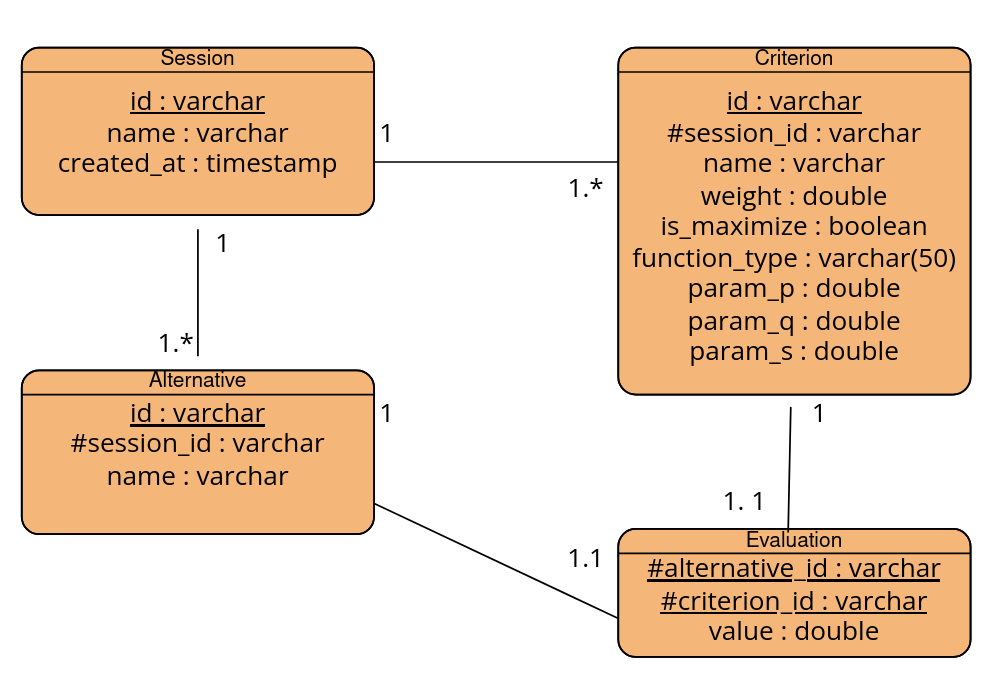
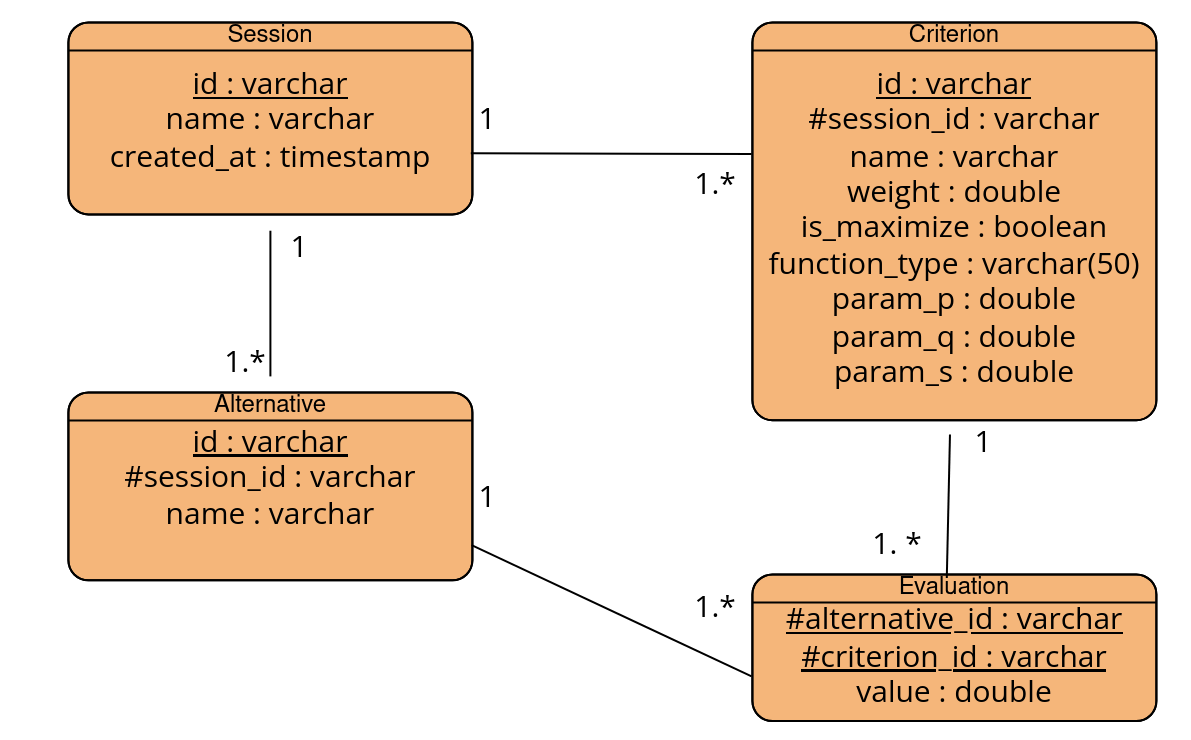
UI : add matrix show preference for each alternative

diff --git a/js/script.js b/js/script.js
@@ -31,6 +31,7 @@ document.addEventListener('DOMContentLoaded', () => {
                 const head = qsa("#resHeader th")[id];
                 if (head) head.innerText = name;
                 updateDropdowns();
+                if (lastResults?.alternatives) updatePromethee1Matrix(lastResults.alternatives);
             }
             updatePairwiseComparison();
             debouncedSendData();
@@ -257,6 +258,8 @@ function displayResults(res) {
         r.cells[r.cells.length-1].innerHTML = `<strong>${sorted.findIndex(s => s.phiNet === item.phiNet) + 1}</strong>`;
         if (fCells[i]) fCells[i].innerText = Number(item.phiMinus).toFixed(4);
     });
+
+    updatePromethee1Matrix(alts);
 }
 
 /**
@@ -360,6 +363,64 @@ function updatePairwiseComparison() {
             }
         }
     }
+}
+
+/**
+ * UI: Render PROMETHEE I Global Matrix
+ */
+function updatePromethee1Matrix(alts) {
+    const h = $("p1MatrixHeader"), body = $("p1MatrixBody");
+    if (!h || !body || !alts) return;
+
+    h.innerHTML = '<th>Alternatives</th>';
+    alts.forEach((alt, i) => {
+        const th = document.createElement('th');
+        const nameInput = document.querySelector(`input[name="altName_${i+1}"]`);
+        th.innerText = (nameInput ? nameInput.value : "") || alt.name;
+        h.appendChild(th);
+    });
+
+    body.innerHTML = '';
+    alts.forEach((altA, i) => {
+        const tr = document.createElement('tr');
+        const tdName = document.createElement('td');
+        const nameInput = document.querySelector(`input[name="altName_${i+1}"]`);
+        tdName.innerText = (nameInput ? nameInput.value : "") || altA.name;
+        tdName.style.fontWeight = "bold";
+        tr.appendChild(tdName);
+
+        alts.forEach((altB, j) => {
+            const td = document.createElement('td');
+            td.style.textAlign = "center";
+            td.style.fontWeight = "bold";
+            if (i === j) {
+                td.innerText = '\\';
+            } else {
+                const pP = altA.phiPlus > altB.phiPlus;
+                const pM = altA.phiMinus < altB.phiMinus;
+                const eP = Math.abs(altA.phiPlus - altB.phiPlus) < 0.0001;
+                const eM = Math.abs(altA.phiMinus - altB.phiMinus) < 0.0001;
+
+                let relation = "";
+                if (eP && eM) {
+                    relation = "I";
+                    td.style.color = "#000000"; // Black
+                } else if ((pP && (pM || eM)) || (eP && pM)) {
+                    relation = "P+";
+                    td.style.color = "#155724"; // Green
+                } else if (((altB.phiPlus > altA.phiPlus) && (altB.phiMinus < altA.phiMinus || eM)) || (eP && altB.phiMinus < altA.phiMinus)) {
+                    relation = "P-";
+                    td.style.color = "#721c24"; // Red
+                } else {
+                    relation = "R";
+                    td.style.color = "#856404"; // Yellow/Orange
+                }
+                td.innerText = relation;
+            }
+            tr.appendChild(td);
+        });
+        body.appendChild(tr);
+    });
 }
 
 /**

diff --git a/doc/report.tex b/doc/report.tex
@@ -47,7 +47,7 @@
 
 % Supervisor Details
 \newcommand{\SupervisorName}{Georgios Bardis}
-\newcommand{\InstitutionName}{University Of West Attika}
+\newcommand{\InstitutionName}{University of West Attica}
 \newcommand{\DepartmentName}{Department of Computer Science}
 \newcommand{\SubmissionYear}{2026}
 
@@ -153,6 +153,26 @@
 \end{titlepage}
 
 %============================================================
+%  ABSTRACT
+%============================================================
+\cleardoublepage
+\chapter*{Abstract}
+This report details the design and implementation of a Web-based Multi-Criteria Decision Analysis (MCDA) application developed during an Erasmus+ internship at the University of West Attica. The primary goal of this project was to provide Decision Makers with a complete, interactive, and user-friendly platform to apply the PROMETHEE I and II methodologies. The application allows users to define alternatives and criteria, select from six distinct preference functions, and dynamically compute partial and complete rankings based on real-time inputs. 
+
+The technical solution relies on a robust three-tier architecture using Jakarta EE Servlets for the backend, Vanilla JavaScript and JSP for a responsive frontend, and PostgreSQL for persistent data storage. The entire system is containerized using Docker to ensure a reproducible deployment environment. To guarantee software reliability, comprehensive testing strategies were implemented, including unit testing for the mathematical engine, integration testing for database interactions, and end-to-end (E2E) testing for the user workflows. This project successfully bridges theoretical decision-making algorithms with modern web engineering practices, resulting in a functional decision support system.
+
+%============================================================
+%  ACKNOWLEDGEMENTS
+%============================================================
+\cleardoublepage
+\chapter*{Acknowledgements}
+I would like to express my deepest gratitude to my supervisor, Mr. Georgios Bardis, for his invaluable guidance, support, and expertise throughout this internship at the University of West Attica. 
+
+I also extend my sincere thanks to the University of West Attica for welcoming me and providing an excellent research and development environment during this Erasmus+ mobility period. 
+
+Finally, I am profoundly grateful to the teaching staff at the Institut Universitaire de Technologie (IUT) of Lille for the solid academic foundation in Computer Science that prepared me for this professional experience.
+
+%============================================================
 %  TABLE OF CONTENTS
 %============================================================
 \cleardoublepage
@@ -183,7 +203,7 @@ I am currently completing my second year of a Bachelor Universitaire de Technolo
 I chose this Erasmus+ mobility to immerse myself in a new academic and professional culture, broaden my international perspective, and improve my technical English proficiency within a research and development environment.
 
 \section{Multi-Criteria Decision Analysis (MCDA)}
-Multi-Criteria Decision Analysis (MCDA) encompasses a collection of methodologies designed to evaluate and select alternatives based on multiple, often conflicting, criteria. These methods are widely employed by organisms and companies for decision support. MCDA methods aim to evaluate alternatives either in an absolute manner (providing a complete ranking) or in a relative manner (identifying strict preference, indifference, or incomparability between specific pairs). Furthermore, some methods allow for grouping alternatives into similarity groups based on shared characteristics.
+Multi-Criteria Decision Analysis (MCDA) encompasses a collection of methodologies designed to evaluate and select alternatives based on multiple, often conflicting, criteria. These methods are widely employed by organizations and companies for decision support. MCDA methods aim to evaluate alternatives either in an absolute manner (providing a complete ranking) or in a relative manner (identifying strict preference, indifference, or incomparability between specific pairs). Furthermore, some methods allow for grouping alternatives into similarity groups based on shared characteristics.
 
 \section{Project Objectives}
 The primary objective of this internship, as defined in the project specification provided by the supervisor, was to design and develop a complete web application implementing both PROMETHEE I and PROMETHEE II methodologies, allowing a Decision Maker to input a performance matrix, define criteria with specific preference functions and weights, and obtain both a partial ranking (PROMETHEE I) and a complete ranking (PROMETHEE II) of the alternatives. The final deliverables include the full application source code, comprehensive documentation, and a working demonstration of the platform.
@@ -274,7 +294,7 @@ The full set of user interactions and functionalities described in this scenario
 
 \begin{figure}[H]
   \centering
-  \includegraphics[width=0.85\textwidth]{./res/Uml/Usual_Case_Diagram.png}
+  \includegraphics[width=0.85\textwidth]{./res/Uml/Use_Case_Diagram.png}
   \caption{Use Case Diagram: Illustrates the primary interactions a user has with the system, such as managing the matrix and exporting results.}
   \label{fig:usecase}
 \end{figure}
@@ -304,7 +324,7 @@ The entire stack is orchestrated using Docker Compose, which seamlessly networks
 
 \begin{figure}[H]
   \centering
-  \includegraphics[width=0.85\textwidth]{./res/Uml/Diagram_Deployement.png}
+  \includegraphics[width=0.85\textwidth]{./res/Uml/Deployment_Diagram.png}
   \caption{Deployment Diagram: Shows the physical distribution of the system components.}
   \label{fig:deployment}
 \end{figure}
@@ -333,6 +353,15 @@ To ensure maintainability and scalability, the code follows a strict Model-View-
   \caption{Class Diagram: Internal object-oriented structure of the mathematical model.}
   \label{fig:classdiagram}
 \end{figure}
+
+\section{Testing and Quality Assurance}
+To ensure the reliability and correctness of the application, a comprehensive testing strategy was implemented within the \texttt{src/test} directory. 
+\begin{itemize}
+    \item \textbf{Unit Testing:} The core mathematical engine (\texttt{PrometheeCalcul} and preference functions) is heavily tested to guarantee that the PROMETHEE flows and calculations are strictly accurate.
+    \item \textbf{Integration Testing:} The Data Access Object (DAO) layer and the PostgreSQL database connectivity are validated through integration tests to ensure data persistence and retrieval function correctly.
+    \item \textbf{End-to-End (E2E) Testing:} The complete user workflows, from creating a matrix in the frontend to calculating the results via the backend API, are verified through E2E tests simulating real user interactions.
+\end{itemize}
+This rigorous approach guarantees the robustness of the decision-making platform in a production-like environment.
 
 %------------------------------------------------------------
 \chapter{Discussion}
@@ -388,7 +417,7 @@ Applying PROMETHEE I, Car A and Car C are comparable ($\Phi^+(A) > \Phi^+(C)$ an
 \section{Analysis: Positives and Limitations}
 \textbf{Positives:} The application provides a highly responsive experience through real-time AJAX recalculations. The backend follows SOLID principles and utilizes the DTO pattern for API communication. The application also supports JSON import/export, enabling users to share and reload decision matrices across sessions.
 
-\textbf{Limitations and Future Alternatives:} One observed limitation is that the current frontend architecture does not provide visual feedback when weights do not sum to exactly 1.0 due to floating-point precision issues (e.g., 0.1 + 0.2 + 0.7 = 0.9999... in JavaScript). A rounding mechanism was implemented as a workaround, but a more robust solution would involve server-side weight normalization.
+\textbf{Limitations and Future Alternatives:} One observed limitation is that the current frontend architecture does not provide visual feedback when weights do not sum to exactly 1.0 due to floating-point precision issues (e.g., 0.1 + 0.2 + 0.7 = 0.9999... in JavaScript). A rounding mechanism was implemented as a workaround, but a more robust solution would involve server-side weight normalization using arbitrary-precision data types, such as Java's \texttt{BigDecimal}, to completely eliminate floating-point inaccuracies.
 
 Graphical visualizations such as the GAIA plane \cite{mareschal2013} would allow Decision Makers to better interpret conflicting criteria visually. 
 Furthermore, adding multi-user authentication would transform the tool into a collaborative platform supporting multiple Decision Makers simultaneously.
